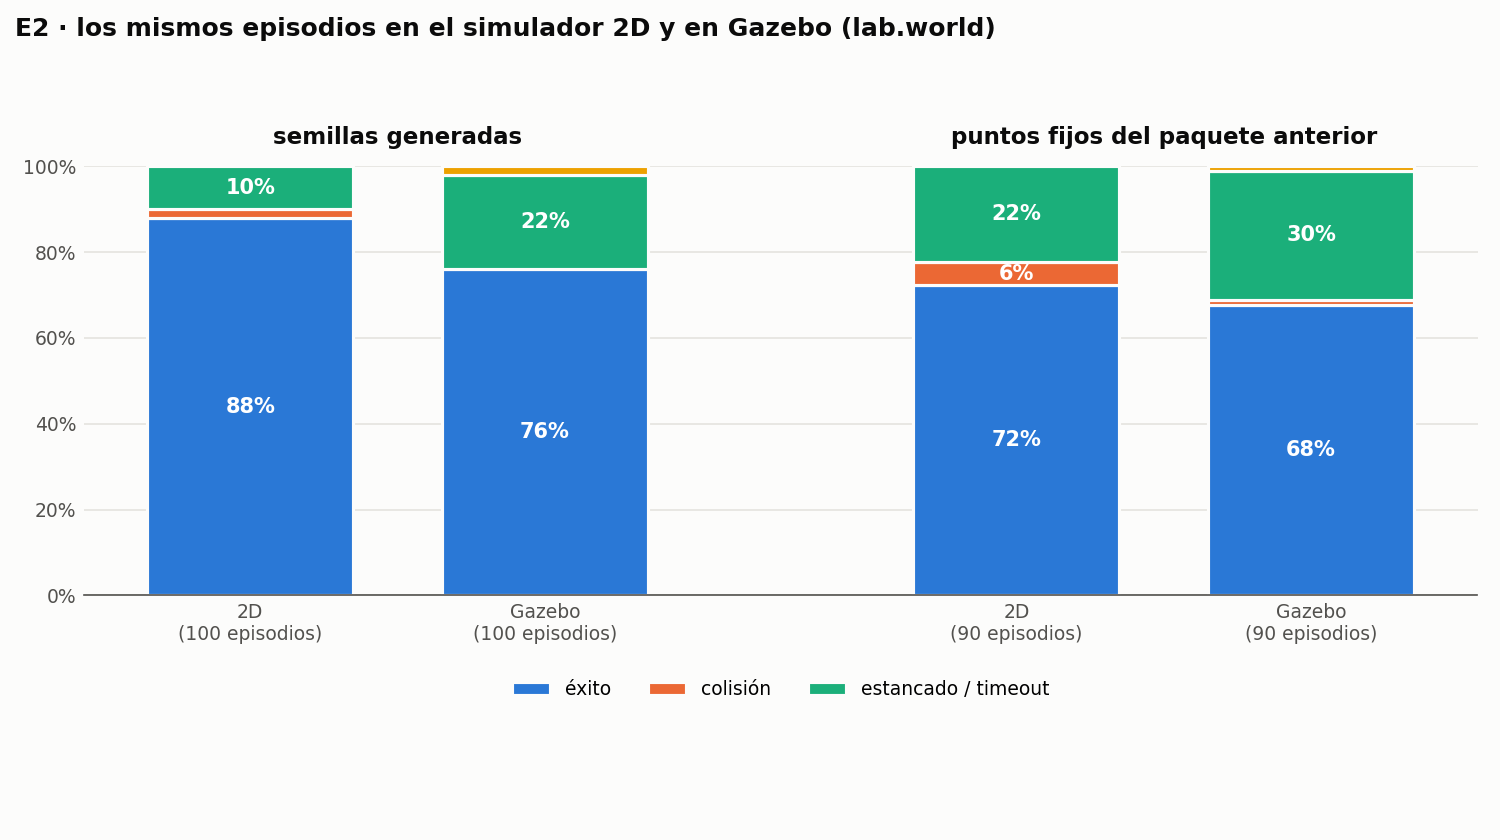
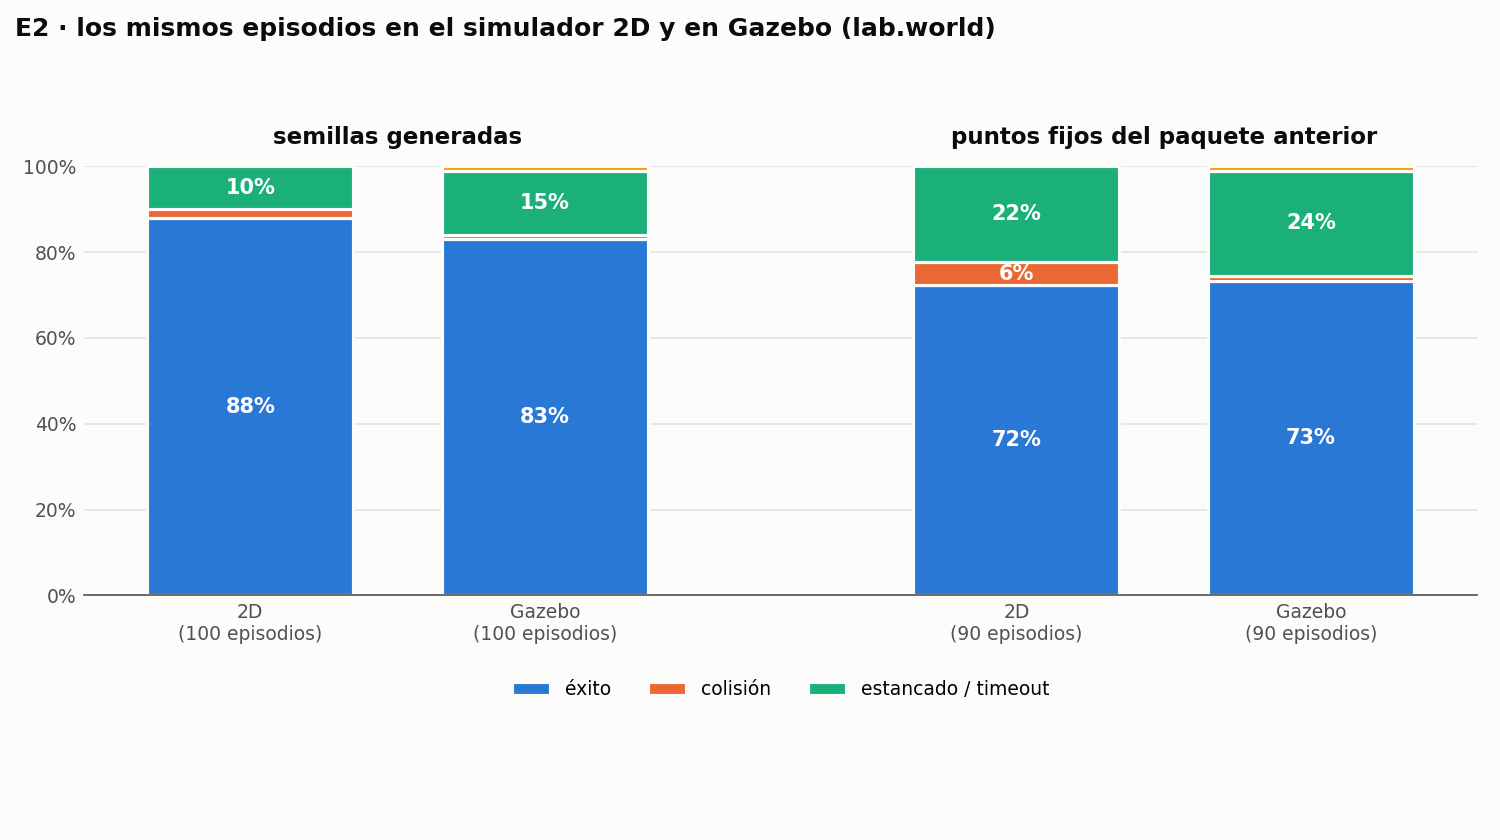
Close E2 with the stall rule active and Gazebo's own repeatability

diff --git a/tools/plot_e2.py b/tools/plot_e2.py
@@ -14,9 +14,9 @@ import matplotlib.pyplot as plt  # noqa: E402
 OUTCOMES = [('success', 'éxito', '#2a78d6'), ('collision', 'colisión', '#eb6834'),
             ('stuck', 'estancado / timeout', '#1baf7a'), ('failed', 'sin ruta', '#eda100')]
 INK, MUTED, GRID, SURFACE = '#0b0b0b', '#52514e', '#e4e3df', '#fcfcfb'
-CONDITIONS = [('semillas generadas', 'eval_obstacles_lab.csv', 'eval_gazebo_lab_v2.csv'),
+CONDITIONS = [('semillas generadas', 'eval_obstacles_lab.csv', 'eval_gazebo_lab_v3.csv'),
               ('puntos fijos del\npaquete anterior', 'eval_obstacles_lab-points.csv',
-               'eval_gazebo_lab_points_v2.csv')]
+               'eval_gazebo_lab_points_v3.csv')]
 
 
 def shares(path, seeds=None):

diff --git a/docs/resultados.md b/docs/resultados.md
@@ -185,3 +185,32 @@ resulta ser una colisión real. El tiempo medio por episodio baja de 46 a 36 s.
 > **transfiere a Gazebo sin pérdida medible** (0.880 frente a 0.880, con la misma tasa de colisión).
 > La brecha de 12 puntos que medimos primero no era del simulador: era un guardia de seguridad mal
 > diseñado por nuestra parte. Queda pendiente repetir también la condición de puntos fijos.
+
+### E2 final, con la regla de estancamiento activa
+
+Segundo fallo encontrado al revisar los CSV: `gazebo_eval` tomaba la posición de `/odom`, que la
+tracción mecanum **no publica** (su odometría va en `/mecanum_drive_controller/odometry`). La
+posición quedaba en `None` y la regla de los 15 s sin avanzar no se activaba nunca: todos los
+bloqueos agotaban los 120 s y se etiquetaban `timeout`. Ahora la posición viene de la pose real de
+Gazebo, que existe con cualquier tracción.
+
+Repetición final de las dos condiciones, pareada contra el 2D:
+
+| condición | simulador | éxito [IC95] | colisión | estancado | timeout |
+|---|---|---|---|---|---|
+| semillas generadas (100) | 2D | 0.880 [0.802, 0.930] | 0.020 | 0.090 | 0.010 |
+| semillas generadas (100) | Gazebo | 0.830 [0.745, 0.891] | 0.010 | 0.080 | 0.070 |
+| puntos fijos (90) | 2D | 0.722 [0.622, 0.804] | 0.056 | 0.222 | 0.000 |
+| puntos fijos (90) | Gazebo | 0.733 [0.634, 0.814] | 0.011 | 0.067 | 0.178 |
+
+**Repetibilidad de Gazebo:** dos pasadas de los **mismos** 100 episodios dan 0.880 y 0.830, y
+coinciden en 85 de 100. Es decir, el propio simulador tiene un ruido de ±5 puntos entre
+repeticiones, del orden de la brecha que queremos medir.
+
+> **Conclusión final de E2:** la política transfiere del simulador 2D a Gazebo **sin pérdida
+> distinguible del ruido del propio simulador**: −5.0 puntos con las semillas generadas y +1.1 con
+> los puntos fijos, con intervalos que se solapan ampliamente. Las colisiones son iguales o menores
+> en Gazebo. Entrenar en 2D, unas 50 veces más rápido, no se paga con un peor resultado.
+
+Queda un 7–18% de episodios que agotan el tiempo sin ser estancamiento: el robot se mueve, pero
+avanza demasiado poco para llegar. Es el mismo fallo que en 2D, visto con otro reloj.
